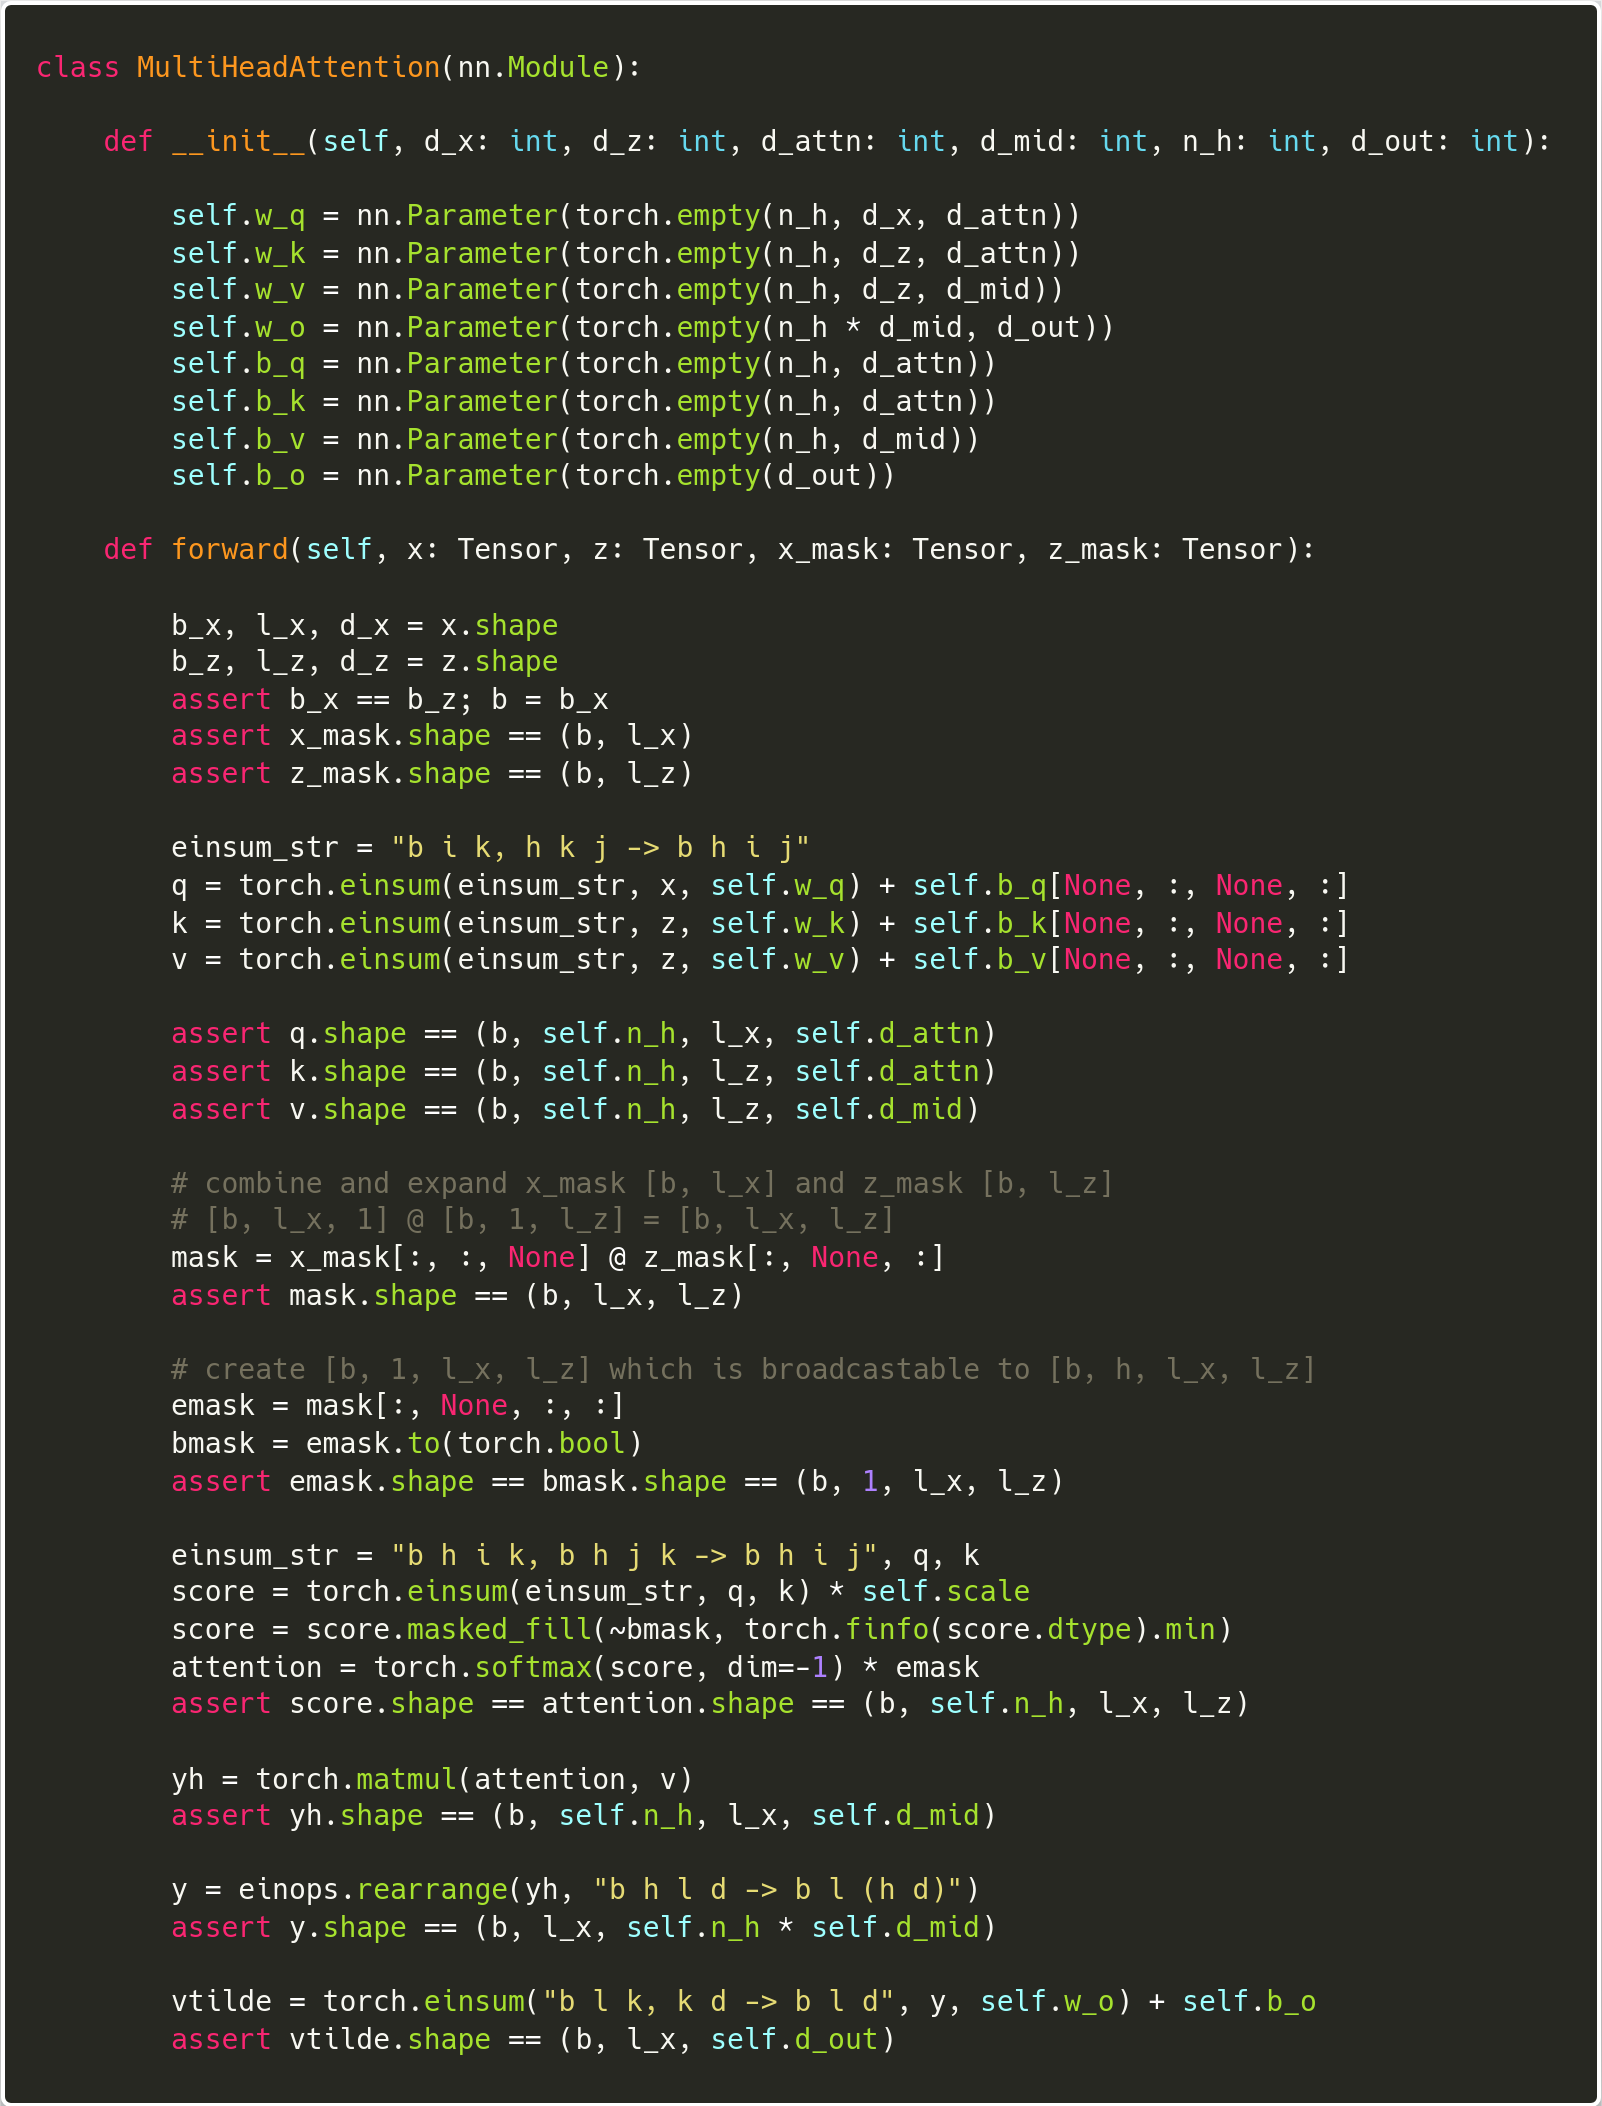
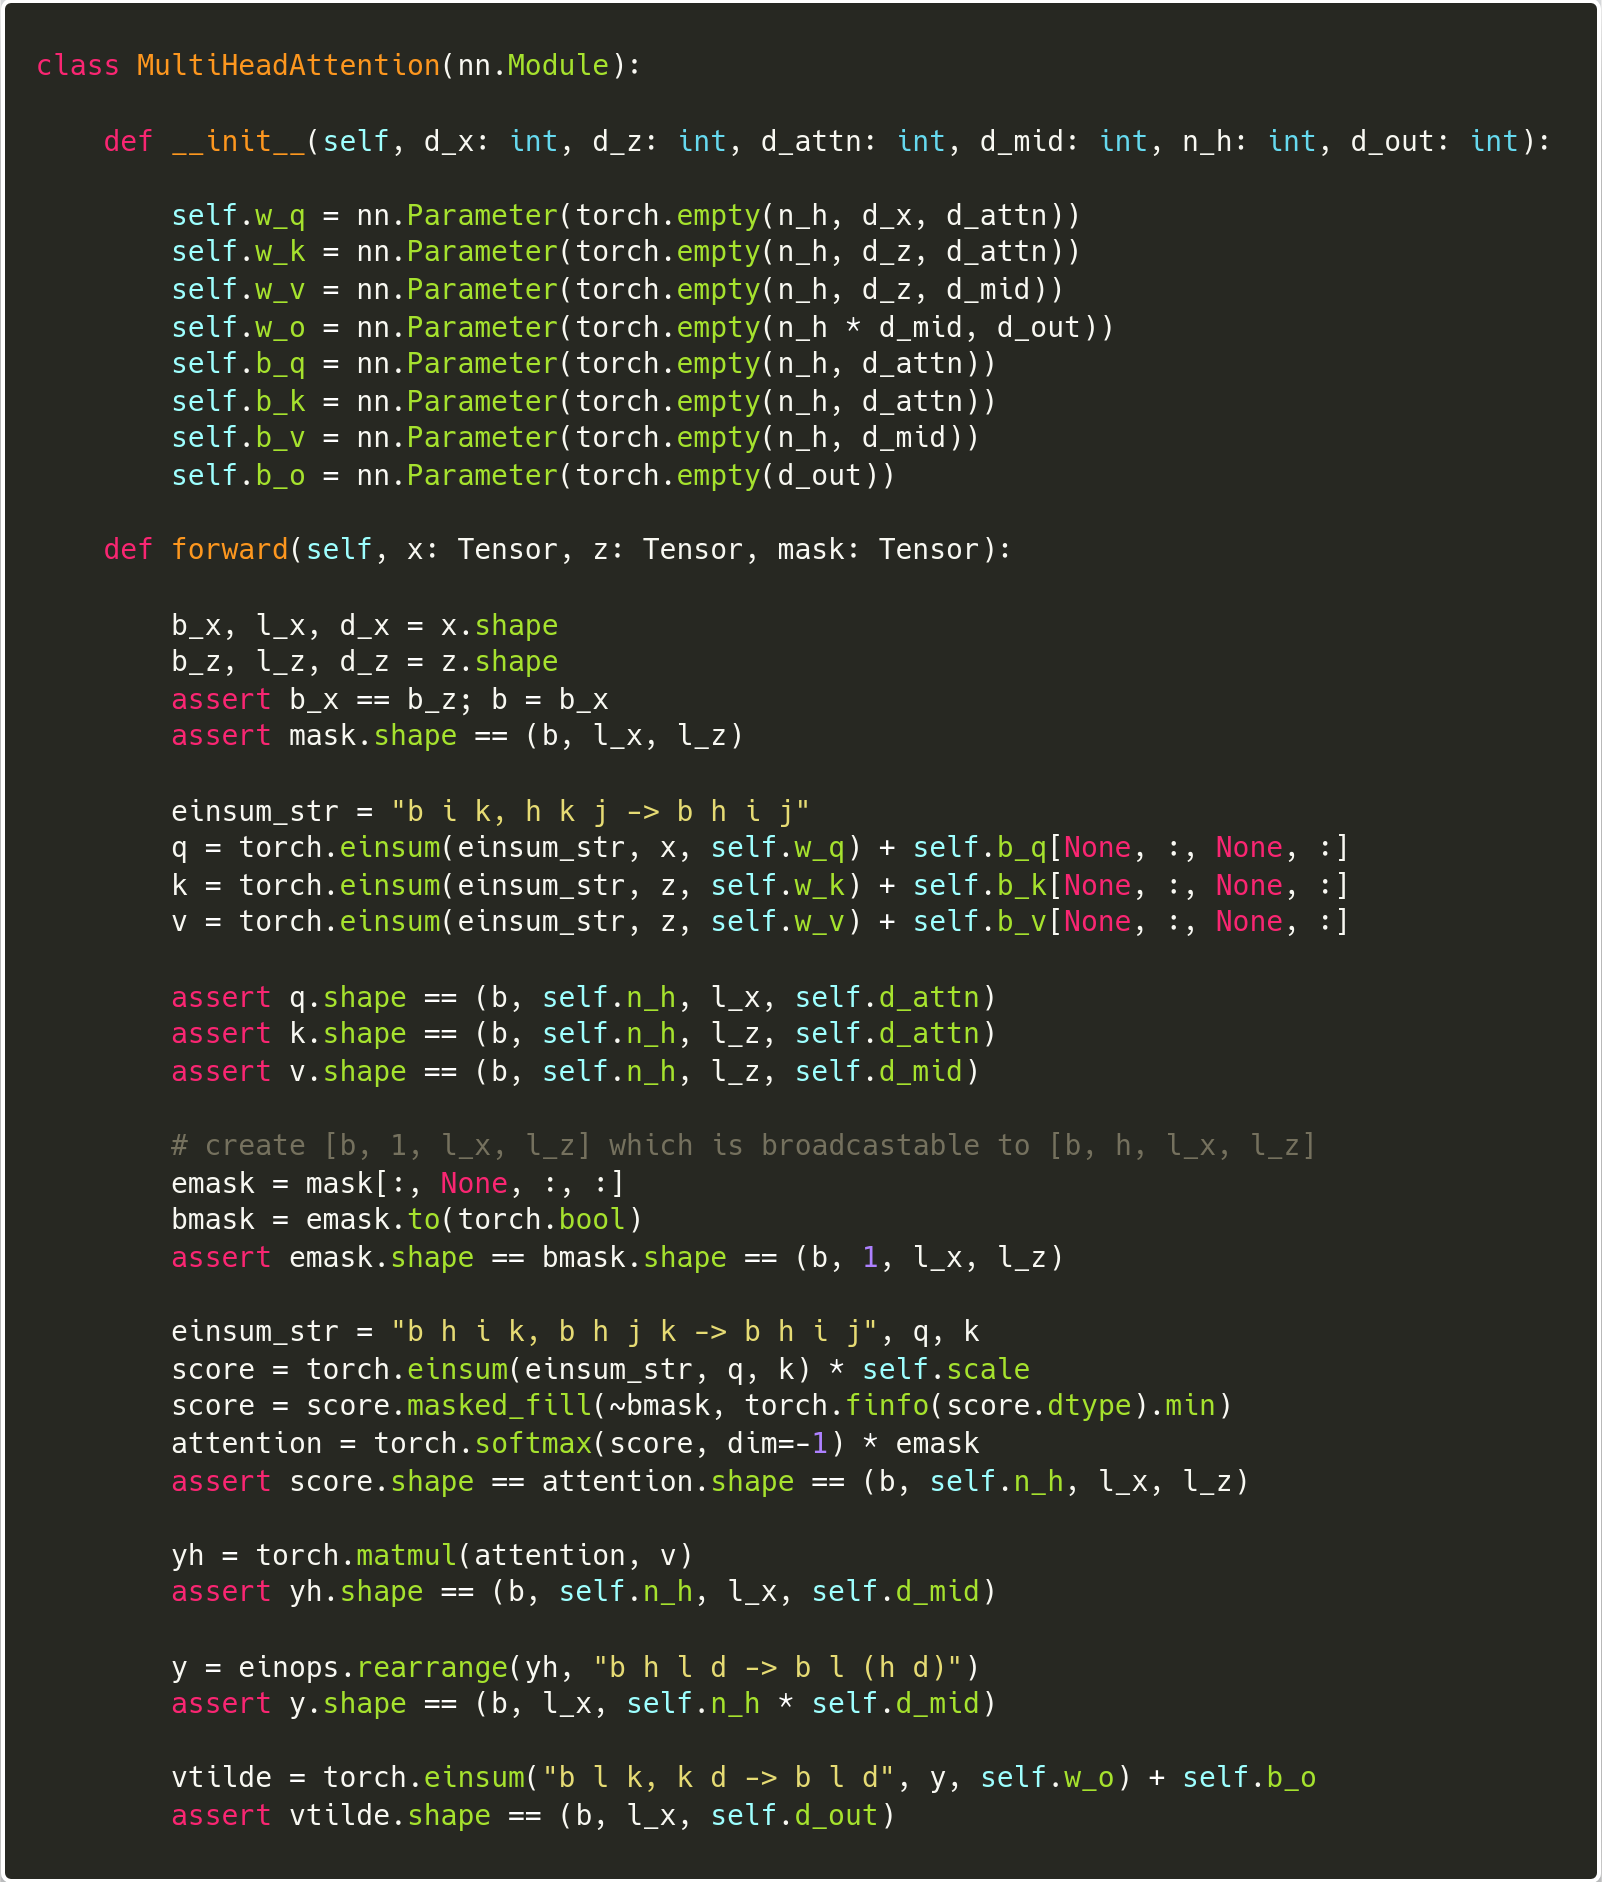
use multidim mask as input

diff --git a/medium/code_sketches/multi_head.py b/medium/code_sketches/multi_head.py
@@ -11,13 +11,12 @@ class MultiHeadAttention(nn.Module):
         self.b_v = nn.Parameter(torch.empty(n_h, d_mid))
         self.b_o = nn.Parameter(torch.empty(d_out))
 
-    def forward(self, x: Tensor, z: Tensor, x_mask: Tensor, z_mask: Tensor):
+    def forward(self, x: Tensor, z: Tensor, mask: Tensor):
 
         b_x, l_x, d_x = x.shape
         b_z, l_z, d_z = z.shape
         assert b_x == b_z; b = b_x
-        assert x_mask.shape == (b, l_x)
-        assert z_mask.shape == (b, l_z)
+        assert mask.shape == (b, l_x, l_z)
 
         einsum_str = "b i k, h k j -> b h i j"
         q = torch.einsum(einsum_str, x, self.w_q) + self.b_q[None, :, None, :]
@@ -27,11 +26,6 @@ class MultiHeadAttention(nn.Module):
         assert q.shape == (b, self.n_h, l_x, self.d_attn)
         assert k.shape == (b, self.n_h, l_z, self.d_attn)
         assert v.shape == (b, self.n_h, l_z, self.d_mid)
-
-        # combine and expand x_mask [b, l_x] and z_mask [b, l_z]
-        # [b, l_x, 1] @ [b, 1, l_z] = [b, l_x, l_z]
-        mask = x_mask[:, :, None] @ z_mask[:, None, :]
-        assert mask.shape == (b, l_x, l_z)
 
         # create [b, 1, l_x, l_z] which is broadcastable to [b, h, l_x, l_z]
         emask = mask[:, None, :, :]

diff --git a/medium/code_sketches/single_head.py b/medium/code_sketches/single_head.py
@@ -9,13 +9,12 @@ class SingleHeadAttention(nn.Module):
         self.b_k = nn.Parameter(torch.empty(d_attn))
         self.b_v = nn.Parameter(torch.empty(d_out))
 
-    def forward(self, x: Tensor, z: Tensor, x_mask: Tensor, z_mask: Tensor):
+    def forward(self, x: Tensor, z: Tensor, mask: Tensor):
 
         b_x, l_x, d_x = x.shape
         b_z, l_z, d_z = z.shape
         assert b_x == b_z; b = b_x
-        assert x_mask.shape == (b, l_x)
-        assert z_mask.shape == (b, l_z)
+        assert mask.shape == (b, l_x, l_z)
 
         einsum_str = "b i k, k j -> b i j"
         q = torch.einsum(einsum_str, x, self.w_q) + self.b_q
@@ -26,11 +25,7 @@ class SingleHeadAttention(nn.Module):
         assert k.shape == (b, l_z, self.d_attn)
         assert v.shape == (b, l_z, self.d_out)
 
-        # combine and expand x_mask [b, l_x] and z_mask [b, l_z]
-        # [b, l_x, 1] @ [b, 1, l_z] = [b, l_x, l_z]
-        mask = x_mask[:, :, None] @ z_mask[:, None, :]
         bmask = mask.to(torch.bool)
-
         einsum_str = "b i k, b j k -> b i j"
         score = torch.einsum(einsum_str, q, k) / math.sqrt(self.d_attn)
         score = score.masked_fill(~bmask, torch.finfo(score.dtype).min)
